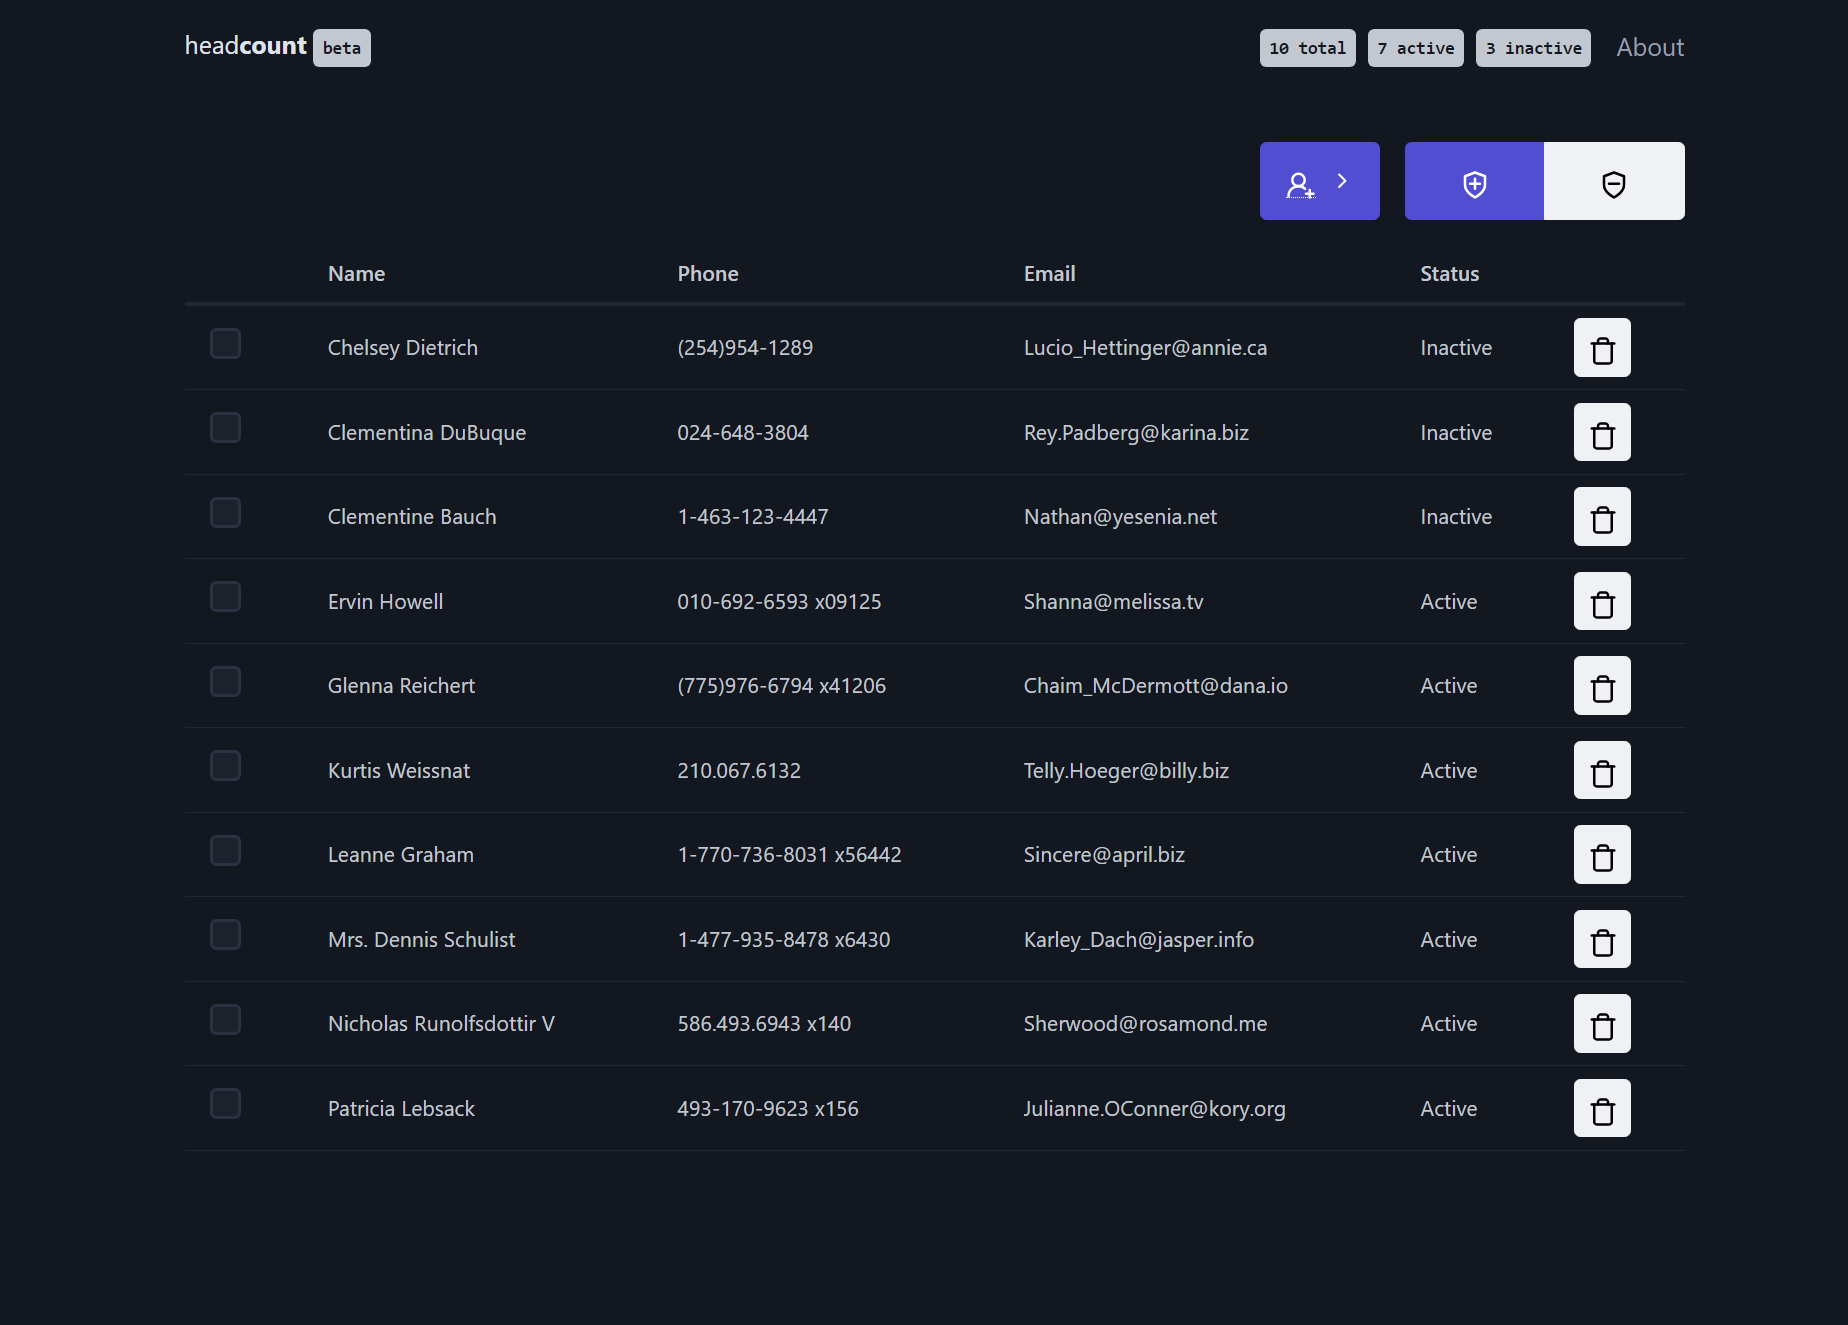
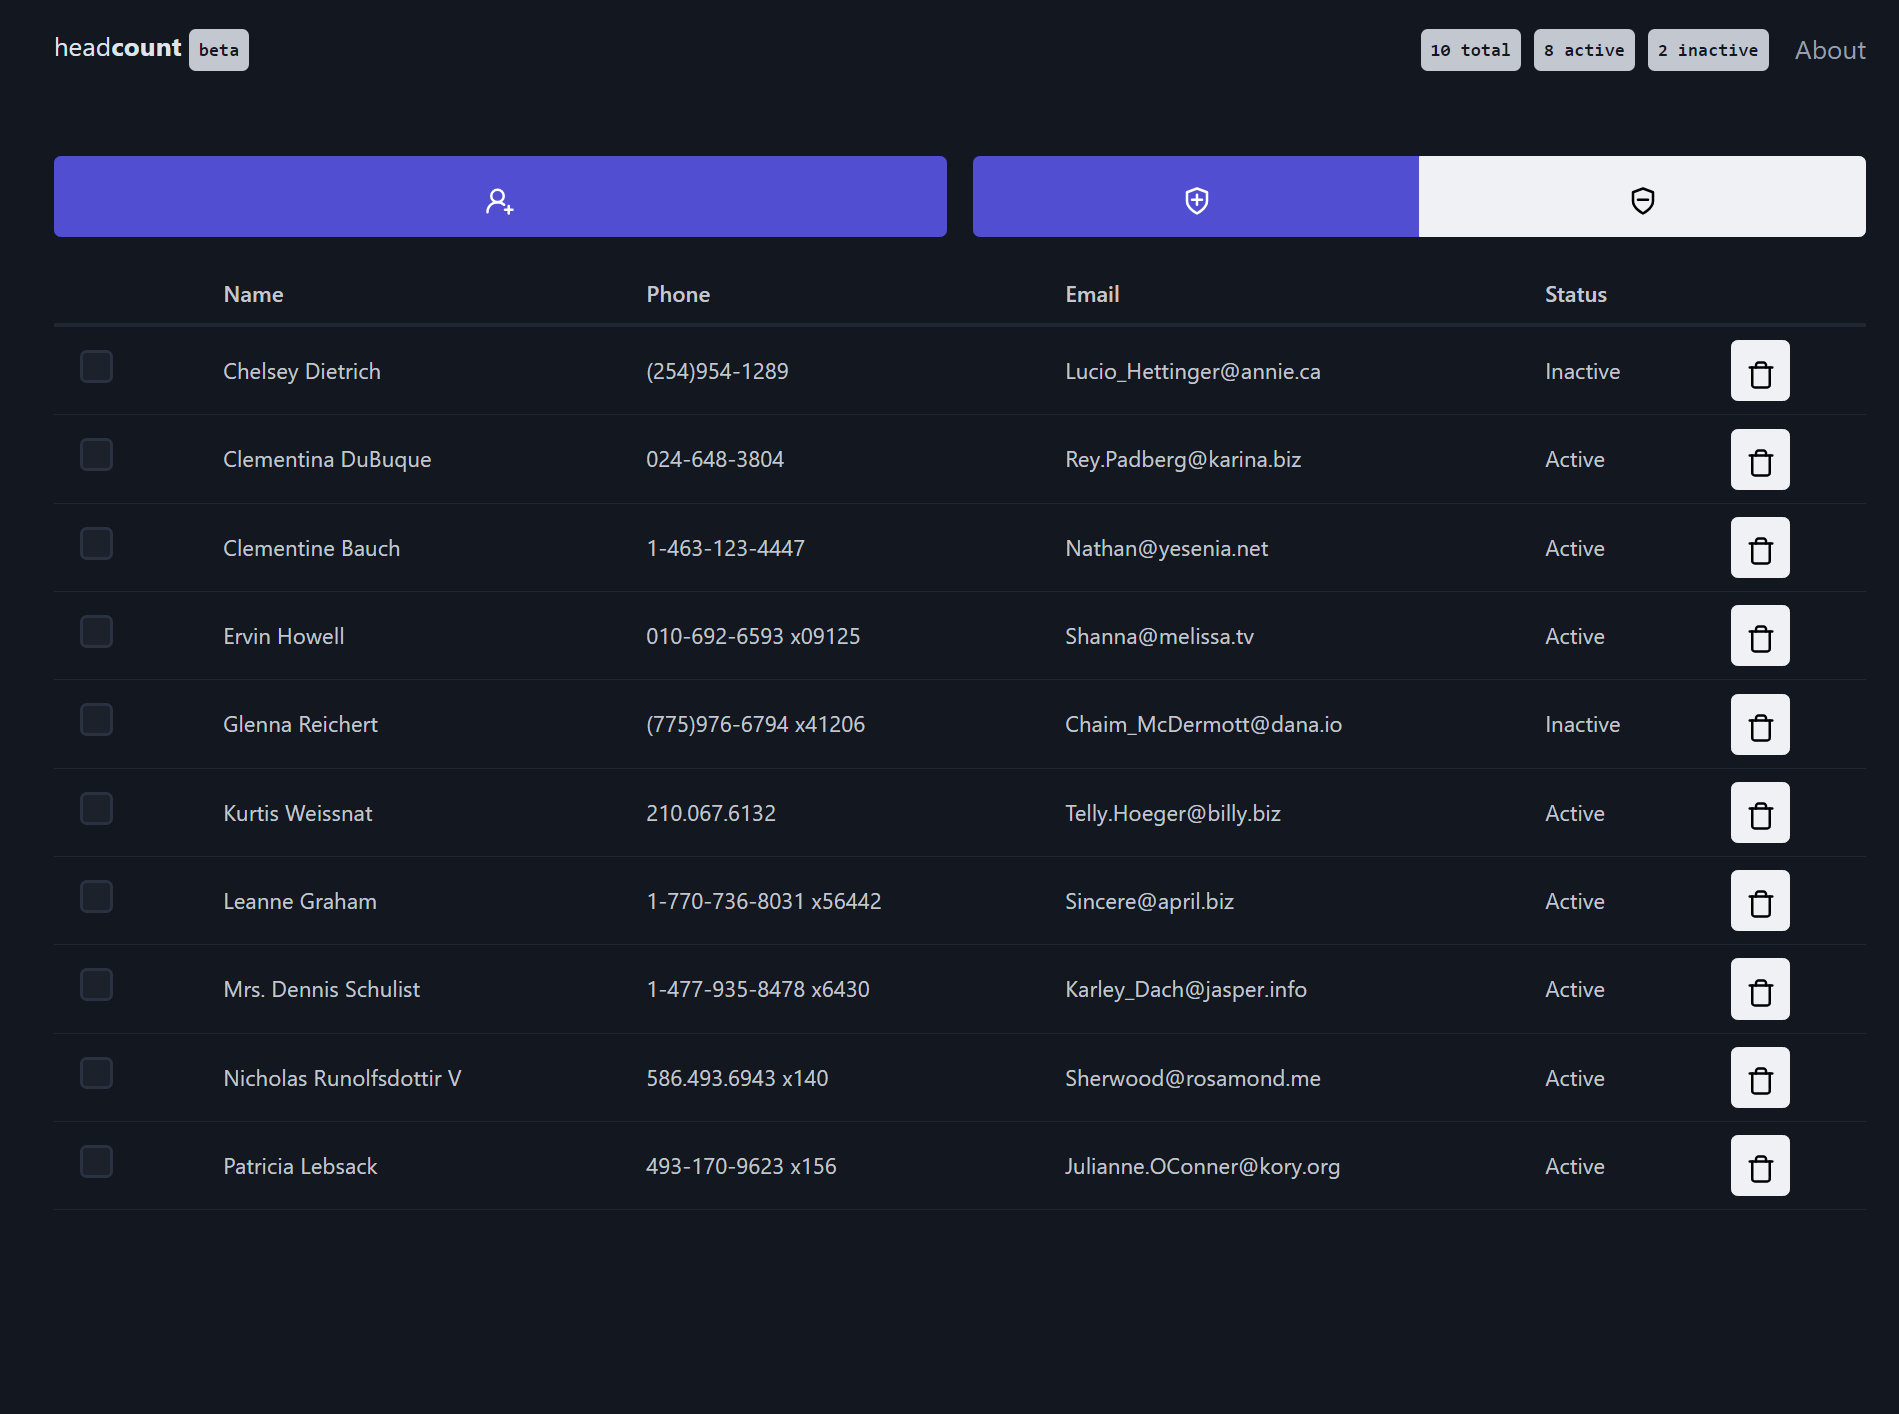
feat: render new entry form modal dialog via server

diff --git a/server/templates/index.html b/server/templates/index.html
@@ -20,6 +20,10 @@
     />
     <link
       rel="stylesheet"
+      href="{{ url_for('static', filename='css/modal.css') }}"
+    />
+    <link
+      rel="stylesheet"
       href="{{ url_for('static', filename='css/styles.css') }}"
     />
   </head>
@@ -103,58 +107,35 @@
     <main>
       <section class="container">
         <div class="grid">
-          <div></div>
-          <div></div>
-          <div></div>
-          <details class="form-add-new">
-            <summary role="button">
-              <icon data-tooltip="Add new">
-                <svg
-                  xmlns="http://www.w3.org/2000/svg"
-                  width="24"
-                  height="24"
-                  viewBox="0 0 24 24"
-                  fill="none"
-                  stroke="currentColor"
-                  stroke-width="2"
-                  stroke-linecap="round"
-                  stroke-linejoin="round"
-                  class="lucide lucide-user-round-plus"
-                >
-                  <path d="M2 21a8 8 0 0 1 13.292-6" />
-                  <circle cx="10" cy="8" r="5" />
-                  <path d="M19 16v6" />
-                  <path d="M22 19h-6" />
-                </svg>
-              </icon>
-            </summary>
-            <form hx-post="/add_contact" hx-target="#contact-list">
-              <article>
-                <header><b>Add new headcount</b></header>
-                <label for="name"
-                  >Name <input type="text" id="name" name="name" required
-                /></label>
-                <label for="phone"
-                  >Phone <input type="tel" id="phone" name="phone" required
-                /></label>
-                <label for="email"
-                  >Email <input type="email" id="email" name="email" required
-                /></label>
-                <div class="grid">
-                  <fieldset>
-                    <legend>Status</legend>
-                    <label for="status"
-                      ><input type="checkbox" id="status" name="status" />
-                      Active</label
-                    >
-                  </fieldset>
-                  <button type="submit" data-tooltip="Add new">Submit</button>
-                </div>
-              </article>
-            </form>
-          </details>
+          <button
+            hx-get="/modal"
+            hx-target="body"
+            hx-swap="beforeend"
+            type="button"
+            data-tooltip="Add new"
+            aria-label="Add new"
+          >
+            <icon>
+              <svg
+                xmlns="http://www.w3.org/2000/svg"
+                width="24"
+                height="24"
+                viewBox="0 0 24 24"
+                fill="none"
+                stroke="currentColor"
+                stroke-width="2"
+                stroke-linecap="round"
+                stroke-linejoin="round"
+                class="lucide lucide-user-round-plus"
+              >
+                <path d="M2 21a8 8 0 0 1 13.292-6" />
+                <circle cx="10" cy="8" r="5" />
+                <path d="M19 16v6" />
+                <path d="M22 19h-6" />
+              </svg>
+            </icon>
+          </button>
           <div role="group">
-            <!-- <div></div> -->
             <div hx-include="#checked-contacts" hx-target="#tbody" role="group">
               <button class="" hx-put="/activate" data-tooltip="Activate">
                 <svg

diff --git a/server/static/css/styles.css b/server/static/css/styles.css
@@ -98,16 +98,18 @@ article.searchbox {
     }
 }
 
-details.form-add-new {
-    & summary[role="button"] {
-        cursor: pointer;
-        width: fit-content;
-        margin-inline-start: auto;
-    }
+form[data-post="/add_contact"] {
+    max-height: 85vh;
+    overflow-y: overlay;
+    font-size: 80%;
 
-    & form {
-        position: absolute;
-        z-index: 1;
+    & article {
+        margin-block-end: 0;
+        padding-block-end: 0;
+
+        & header {
+            margin-block-end: 1em;
+        }
     }
 }
 
@@ -171,4 +173,19 @@ tr.htmx-swapping td {
 
 .relative {
     position: relative;
+}
+
+.sr-only {
+    clip: rect(1px, 1px, 0, 0);
+    width: 1px;
+    height: 1px;
+    overflow: hidden;
+    white-space: nowrap;
+}
+
+.sr-only:focus {
+    clear: inherit;
+    width: auto;
+    height: auto;
+    overflow: visible;
 }

diff --git a/server/main.py b/server/main.py
@@ -125,6 +125,7 @@ def get_contacts():
 
 @app.route("/activate", methods=["PUT"])
 def activate():
+    """If you want to stop polling from a server response you can respond with the HTTP response code 286 and the element will cancel the polling."""
     ids = request.form.getlist("ids")
     seen = set()
 
@@ -145,6 +146,7 @@ def activate():
 
 @app.route("/deactivate", methods=["PUT"])
 def deactivate():
+    """If you want to stop polling from a server response you can respond with the HTTP response code 286 and the element will cancel the polling."""
     ids = request.form.getlist("ids")
     seen = set()
 
@@ -161,6 +163,43 @@ def deactivate():
     ]
     html = "".join(rows)
     return Markup(f"{html}")
+
+
+@app.route("/contact/email", methods=["POST"])
+def validate_email_with_partial():
+    email: str | None = request.form.get("email")
+    pattern = r"^\b[A-Za-z0-9._%+-]+@[A-Za-z0-9.-]+\.[A-Z|a-z]{2,}\b"
+
+    matches = re.match(pattern, email)
+    is_valid = bool(matches)
+
+    exists = any([con["email"] == email for con in contacts]) if is_valid else False
+    is_err = (not is_valid) or exists
+
+    msg = "Invalid email" if not is_valid else "Email already exists" if exists else ""
+
+    return Markup(
+        f"""
+        <div hx-target="this" hx-swap="outerHTML">
+            <label for="email">Email </label>
+            <input
+                name="email"
+                hx-post="/contact/email"
+                hx-indicator="#ind"
+                value={"&nbsp;" if email.isspace() else email}
+                aria-describedby="email-helper"
+                aria-invalid={"true" if is_err else "false"}
+                aria-label="email"
+                autocomplete="email"
+                id="email"
+                placeholder="Email"
+                required
+                type="email"
+            />
+            <small id="email-helper">{msg}</small>
+        </div>
+        """
+    )
 
 
 @app.route("/search_contact", methods=["GET"])
@@ -238,16 +277,66 @@ def count_inactive_contacts():
 def get_modal():
     return Markup(
         f"""
-        <div id="modal" _="on closeModal add .closing then wait for animationend then remove me">
-            <div class="modal-underlay" _="on click trigger closeModal"></div>
-            <div class="modal-content">
-                <h1>Modal Dialog</h1>
-                This is the modal content.
-                You can put anything here, like text, or a form, or an image.
-                <br>
-                <br>
-                <button _="on click trigger closeModal">Close</button>
-            </div>
+        <div
+          id="modal"
+          _="on closeModal add .closing then wait for animationend then remove me"
+        >
+          <div class="modal-underlay" _="on click trigger closeModal"></div>
+          <div class="modal-content">
+            <form
+              data-post="/add_contact"
+              hx-post="/add_contact"
+              hx-target="#contact-list"
+            >
+              <article>
+                <header><b>Add new headcount</b></header>
+                <label for="name" class="sr-only">Name </label>
+                <input type="text" id="name" name="name" placeholder="Name" required />
+                <label for="phone" class="sr-only">Phone</label>
+                <input type="tel" id="phone" name="phone" placeholder="Phone" required />
+                <div hx-target="this" hx-swap="outerHTML">
+                  <label for="email" class="sr-only">Email</label>
+                  <input
+                    name="email"
+                    hx-post="/contact/email"
+                    hx-indicator="#ind"
+                    aria-label="email"
+                    aria-describedby="email-helper"
+                    autocomplete="email"
+                    id="email"
+                    placeholder="Email"
+                    required
+                    type="email"
+                  />
+                  <img
+                    src="static/assets/img/loader.gif"
+                    id="ind"
+                    alt="Loading..."
+                    class="htmx-indicator"
+                    aria-busy="true"
+                  />
+                </div>
+                <fieldset>
+                  <legend>Status</legend>
+                  <input type="checkbox" id="status" name="status" />
+                  <label for="status">Active</label>
+                </fieldset>
+                <div class="grid">
+                  <div></div>
+                  <div></div>
+                  <button
+                    class="secondary"
+                    type="button"
+                    _="on click trigger closeModal"
+                    data-tooltip="Close form"
+                  >
+                    Close
+                  </button>
+                  <button type="submit" data-tooltip="Add new">Submit</button>
+                </div>
+              </article>
+            </form>
+          </div>
         </div>
         """
     )
